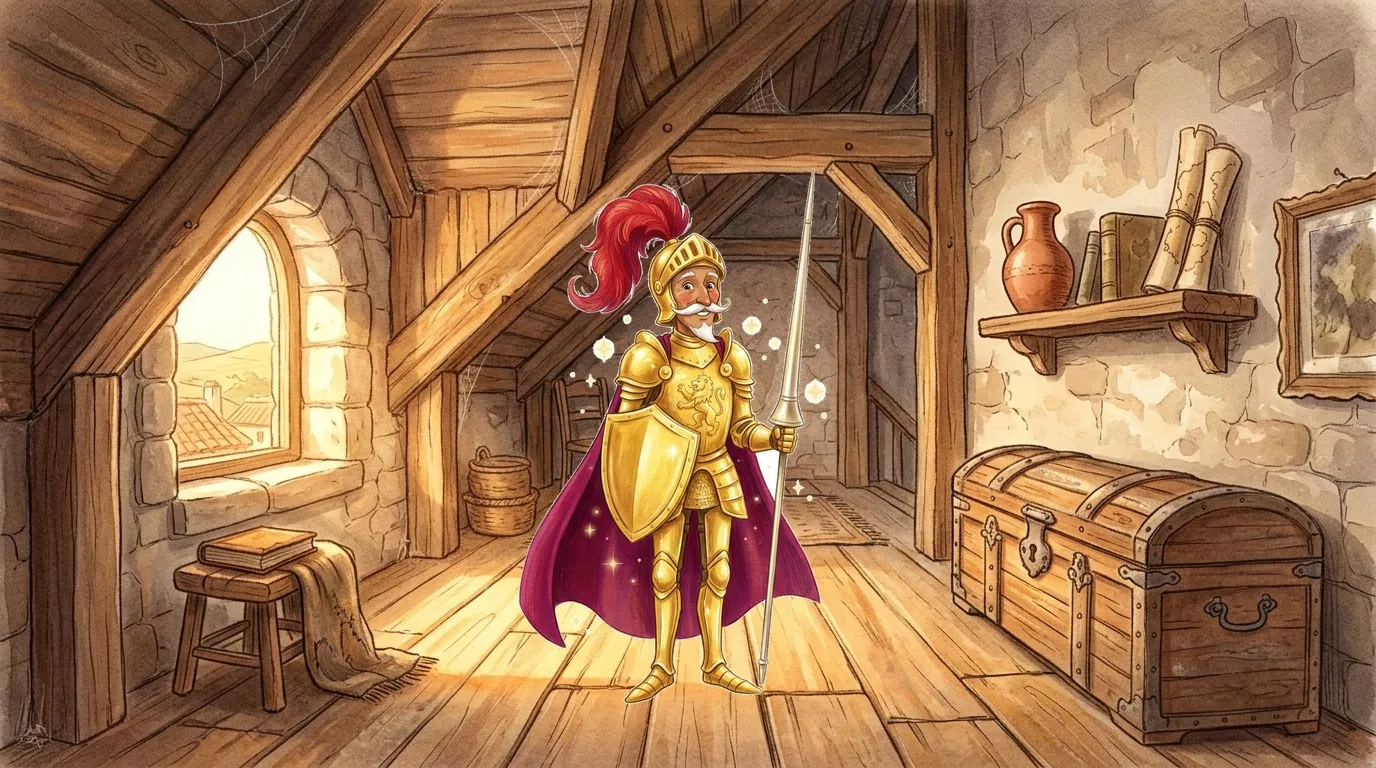
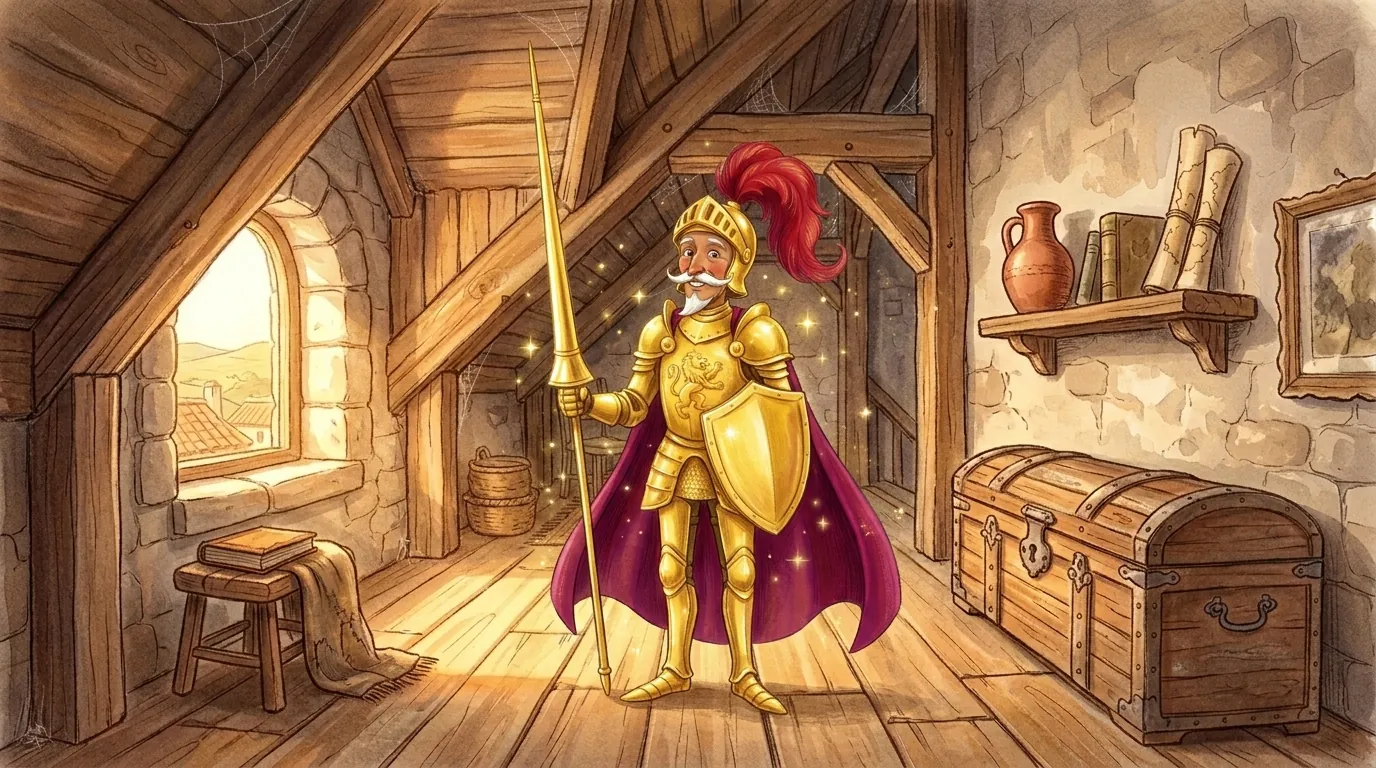
art(dom-quixote): entrega NB-4 alinhamento p2-imag e consistencia p2-real-stage-1

diff --git a/sw.js b/sw.js
@@ -6,7 +6,7 @@
    - Narração gravada (*.mp3 e as marcas *.json em audio/): rede primeiro, para frases regravadas chegarem ao tablet;
      cada arquivo fica num cache próprio (que sobrevive às novas versões) e toca offline depois.
    - Demais arquivos: cache primeiro (abre instantâneo no tablet). */
-const CACHE = 'classicos-vivos-f5d0909647b9';
+const CACHE = 'classicos-vivos-624fd6374dd0';
 const CACHE_AUDIO = 'cv-narracao';
 const FILES = [
     "./assets/icones/icone-192.png",

diff --git a/docs/fila/ENTREGAS.md b/docs/fila/ENTREGAS.md
@@ -11,7 +11,8 @@ Uma linha por entrega (uma tarefa NB ou uma página das Partes 2–4), **acresce
 | 2026-10-23 20:38 | P-001 | NB-3 (parcial) | `dom-quixote/imagens/p1-real-livro-castelos.webp` | `c8f09c7` | Livro dos Castelos (capa azul, silhueta do castelo) entregue. Dragões e Cavaleiros aguardam reset da cota do modelo Nano-Banana (429 RESOURCE_EXHAUSTED no gemini-3.1-flash-image, reseta em 2026-10-24 01:22:03 UTC / ~4h40m). |
 | 2026-10-23 21:28 | P-003 | NB-2 (ajuste) | `dom-quixote/imagens/camadas/p4-estalajadeiro-acenando.webp`, `dom-quixote/imagens/camadas/p4-estalajadeiro-sopa.webp`, `dom-quixote/imagens/camadas/p4-porquinhos.webp`, `dom-quixote/imagens/camadas/p4-pastor-parado.webp`, `dom-quixote/imagens/camadas/p4-pastor-tocando.webp`, `dom-quixote/imagens/camadas/p4-notas-musicais.webp` | `d479365` | Ajustes atendidos mantendo o mesmo canvas: avental 100% opaco, sombras escuras suaves sem mancha branca; pastor sem tapete de grama com sombra suave; notas sem halo branco com brilho dourado. Testado contra magenta. |
 | 2026-10-23 21:30 | P-004 | limpeza | removidos: `p4-real.webp`, `p4-real-flauta.webp`, `p4-real-sopa.webp`, `p7-real.webp`, `moinho-pas.svg` | `dfc0b2d` | Arquivos descontinuados após migração para camadas removidos com sucesso. CATALOGO.md atualizado; sw.js regenerado (versão fcc6031a9e15, 66 arquivos). |
-| 2026-10-24 01:25 | P-001 | NB-3 (conclusão) | `dom-quixote/imagens/p1-real-livro-dragoes.webp`, `dom-quixote/imagens/p1-real-livro-cavaleiros.webp` | neste commit | Tarefa NB-3 completa: livro dos dragões (verde, dragãozinho dourado sutil) e livro dos cavaleiros (vermelho, cavaleiros montados) gerados após renovação da cota. Sala, estante, poltrona e gatinho idênticos à base p1-real. Destrava integração A-3. |
+| 2026-10-24 01:25 | P-001 | NB-3 (conclusão) | `dom-quixote/imagens/p1-real-livro-dragoes.webp`, `dom-quixote/imagens/p1-real-livro-cavaleiros.webp` | `56622ef` | Tarefa NB-3 completa: livro dos dragões (verde, dragãozinho dourado sutil) e livro dos cavaleiros (vermelho, cavaleiros montados) gerados após renovação da cota. Sala, estante, poltrona e gatinho idênticos à base p1-real. Destrava integração A-3. |
+| 2026-10-24 01:27 | P-001 | NB-4 | `dom-quixote/imagens/p2-imag.webp`, `dom-quixote/imagens/p2-real-stage-1.webp` | neste commit | p2-imag: herói dourado alinhado na mesma escala, posição e pose exatas de stage-4, sem saltos ao alternar lentes. p2-real-stage-1: bacia removida, revelando o cabelo branco volumoso e traços idênticos a stage-0. |
 
 ## Status atual
-Tarefas NB-1, NB-2 e NB-3 (P-001) concluídas. Prosseguindo imediatamente para NB-4 (Página 3: p2-imag e p2-real-stage-1) e seguintes (NB-5 a NB-8 e P-002). P-005 segue adiado até a conclusão da arte dos 4 livros.
+Tarefas NB-1 a NB-4 (P-001) concluídas. Prosseguindo imediatamente para NB-5 (Página 4: p3-real e p3-real-stage-3) e seguintes (NB-6 a NB-8 e P-002). P-005 segue adiado até a conclusão da arte dos 4 livros.

diff --git a/dom-quixote/biblioteca/CATALOGO.md b/dom-quixote/biblioteca/CATALOGO.md
@@ -20,7 +20,7 @@ Convenção: `pN` = índice da página (`?page=N`), sufixo `-real` (Lente da Rea
 | :--- | :--- | :--- |
 | 0 · Capa | `p0-real`, `p0-imag` | |
 | 1 · O Fidalgo Leitor | `p1-real`, `p1-real-livro-castelos`, `p1-real-livro-dragoes`, `p1-real-livro-cavaleiros`, `p1-imag` | Livros dos Castelos, Dragões e Cavaleiros entregues (NB-3 completo) |
-| 2 · A Armadura do Bisavô | `p2-real-stage-0` … `p2-real-stage-4`, `p2-imag` | Etapas **cumulativas**: 1 peitoral → 2 +bacia → 3 +escudo → 4 +lança |
+| 2 · A Armadura do Bisavô | `p2-real-stage-0` … `p2-real-stage-4`, `p2-imag` | Etapas **cumulativas**: 1 peitoral → 2 +bacia → 3 +escudo → 4 +lança. `p2-imag` alinhado em escala/posição com `stage-4` e `p2-real-stage-1` com cabelo/rosto consistente com `stage-0` (NB-4 completo) |
 | 3 · Rocinante e Dulcineia | `p3-real`, `p3-real-stage-1` … `p3-real-stage-3`, `p3-imag` | Etapas: 1 maçã → 2 cenoura → 3 escova |
 | 4 · Pousada ou Castelo | `p4-real`, `p4-real-fundo`, `p4-real-flauta`, `p4-real-sopa`, `p4-imag` | Camadas em aquarela: `p4-pastor-parado`, `p4-pastor-tocando`, `p4-porquinhos`, `p4-notas-musicais`, `p4-estalajadeiro-acenando`, `p4-estalajadeiro-sopa` (NB-2) |
 | 5 · A Cerimônia | `p5-real`, `p5-imag` | |
